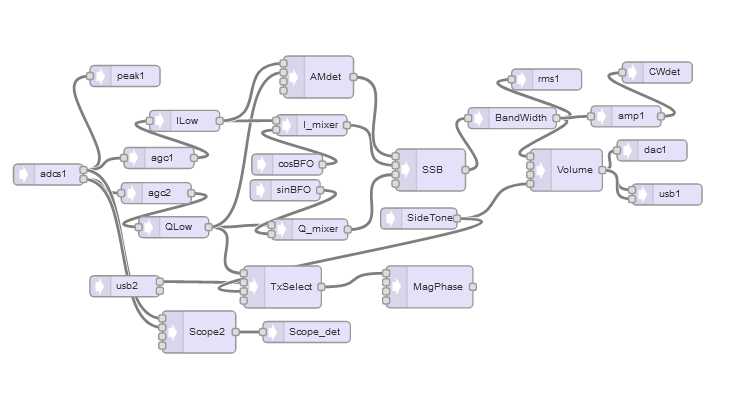
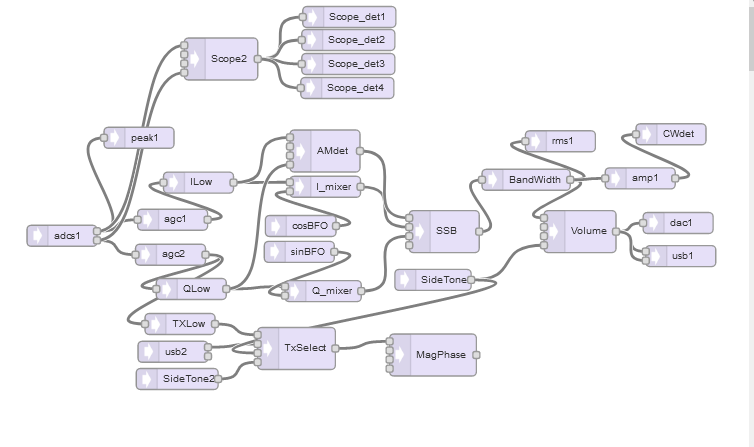
Add files via upload

Changed region(s): [[0.0, 0.0, 0.9622, 0.916], [0.9933, 0.0, 1.0, 0.1832]]

diff --git a/ParksLPF36.h b/ParksLPF36.h
@@ -1,0 +1,41 @@
+
+  // fc 2.87 at 44117 sample rate
+const int16_t TXLowc[36] = { 
+  (int16_t)( 32767.5 * 0.004622950665326221 ),
+ (int16_t)( 32767.5 *  0.003102883251607454 ),
+ (int16_t)( 32767.5 *  0.002355965861557671 ),
+ (int16_t)( 32767.5 * -212.9445887300952340E-6 ),
+ (int16_t)( 32767.5 * -0.004764649034902365 ),
+ (int16_t)( 32767.5 * -0.010884923958759656 ),
+ (int16_t)( 32767.5 * -0.017487995796258406 ),
+ (int16_t)( 32767.5 * -0.022880875462825894 ),
+ (int16_t)( 32767.5 * -0.024981244388363452 ),
+ (int16_t)( 32767.5 * -0.021783532107904069 ),
+ (int16_t)( 32767.5 * -0.011781031933756984 ),
+ (int16_t)( 32767.5 *  0.005532062287462879 ),
+ (int16_t)( 32767.5 *  0.029384608676057911 ),
+ (int16_t)( 32767.5 *  0.057668669787036553 ),
+ (int16_t)( 32767.5 *  0.087162909492430121 ),
+ (int16_t)( 32767.5 *  0.114034442913316020 ),
+ (int16_t)( 32767.5 *  0.134514453863635197 ),
+ (int16_t)( 32767.5 *  0.145587128394631615 ),
+ (int16_t)( 32767.5 *  0.145587128394631615 ),
+ (int16_t)( 32767.5 *  0.134514453863635197 ),
+ (int16_t)( 32767.5 *  0.114034442913316020 ),
+ (int16_t)( 32767.5 *  0.087162909492430121 ),
+ (int16_t)( 32767.5 *  0.057668669787036553 ),
+ (int16_t)( 32767.5 *  0.029384608676057911 ),
+ (int16_t)( 32767.5 *  0.005532062287462879 ),
+ (int16_t)( 32767.5 * -0.011781031933756984 ),
+ (int16_t)( 32767.5 * -0.021783532107904069 ),
+ (int16_t)( 32767.5 * -0.024981244388363452 ),
+ (int16_t)( 32767.5 * -0.022880875462825894 ),
+ (int16_t)( 32767.5 * -0.017487995796258406 ),
+ (int16_t)( 32767.5 * -0.010884923958759656 ),
+ (int16_t)( 32767.5 * -0.004764649034902365 ),
+ (int16_t)( 32767.5 * -212.9445887300952340E-6 ),
+ (int16_t)( 32767.5 *  0.002355965861557671 ),
+ (int16_t)( 32767.5 *  0.003102883251607454 ),
+ (int16_t)( 32767.5 *  0.004622950665326221 )
+};
+

diff --git a/si5351_usdx.cpp b/si5351_usdx.cpp
@@ -137,8 +137,8 @@ public:
       SendRegister(42+0*8, ms_regs, 8); // Write to MS0
       SendRegister(42+1*8, ms_regs, 8); // Write to MS1
       if( rit_enabled == 0 ) SendRegister(42+2*8, ms_regs, 8); // Write to MS2
-      SendRegister(16+0, 0x0C|3|0x00);  // CLK0: 0x0C=PLLA local msynth; 3=8mA; 0x40=integer division; bit7:6=0->power-up
-      SendRegister(16+1, 0x0C|3|0x00);  // CLK1: 0x0C=PLLA local msynth; 3=8mA; 0x40=integer division; bit7:6=0->power-up
+      SendRegister(16+0, 0x0C|1|0x00);  // CLK0: 0x0C=PLLA local msynth; 3=8mA; 0x40=integer division; bit7:6=0->power-up !!! drive 
+      SendRegister(16+1, 0x0C|1|0x00);  // CLK1: 0x0C=PLLA local msynth; 3=8mA; 0x40=integer division; bit7:6=0->power-up
       SendRegister(16+2, 0x2C|3|0x00);  // CLK2: 0x2C=PLLB local msynth; 3=8mA; 0x40=integer division; bit7:6=0->power-up
       SendRegister(165, i * msa / 90);  // CLK0: I-phase (on change -> Reset PLL)
       SendRegister(166, q * msa / 90);  // CLK1: Q-phase (on change -> Reset PLL)

diff --git a/MagPhase.cpp b/MagPhase.cpp
@@ -29,6 +29,7 @@
 // decimate by N version
 
 #define DRATE 6              // decimation rate.  Input should be lowpass filtered appropriately.
+#define DC_OFFSET 0          // try a tx feature from the rx improved branch
 
 #include <Arduino.h>
 #include "MagPhase.h"
@@ -205,7 +206,7 @@ void AudioMagPhase1::update(void){
            rem = 0;  
 
            if( mode == 1 ){                                       // SSB DATA mode
-              process_hilbert( *dat1 );                           // get val1 and val2            
+              process_hilbert( *dat1 + DC_OFFSET );               // get val1 and val2            
               mag[count] = fastAM2( val1, val2);
               ph[count]  =  arctan3( val1, val2 );
            }
